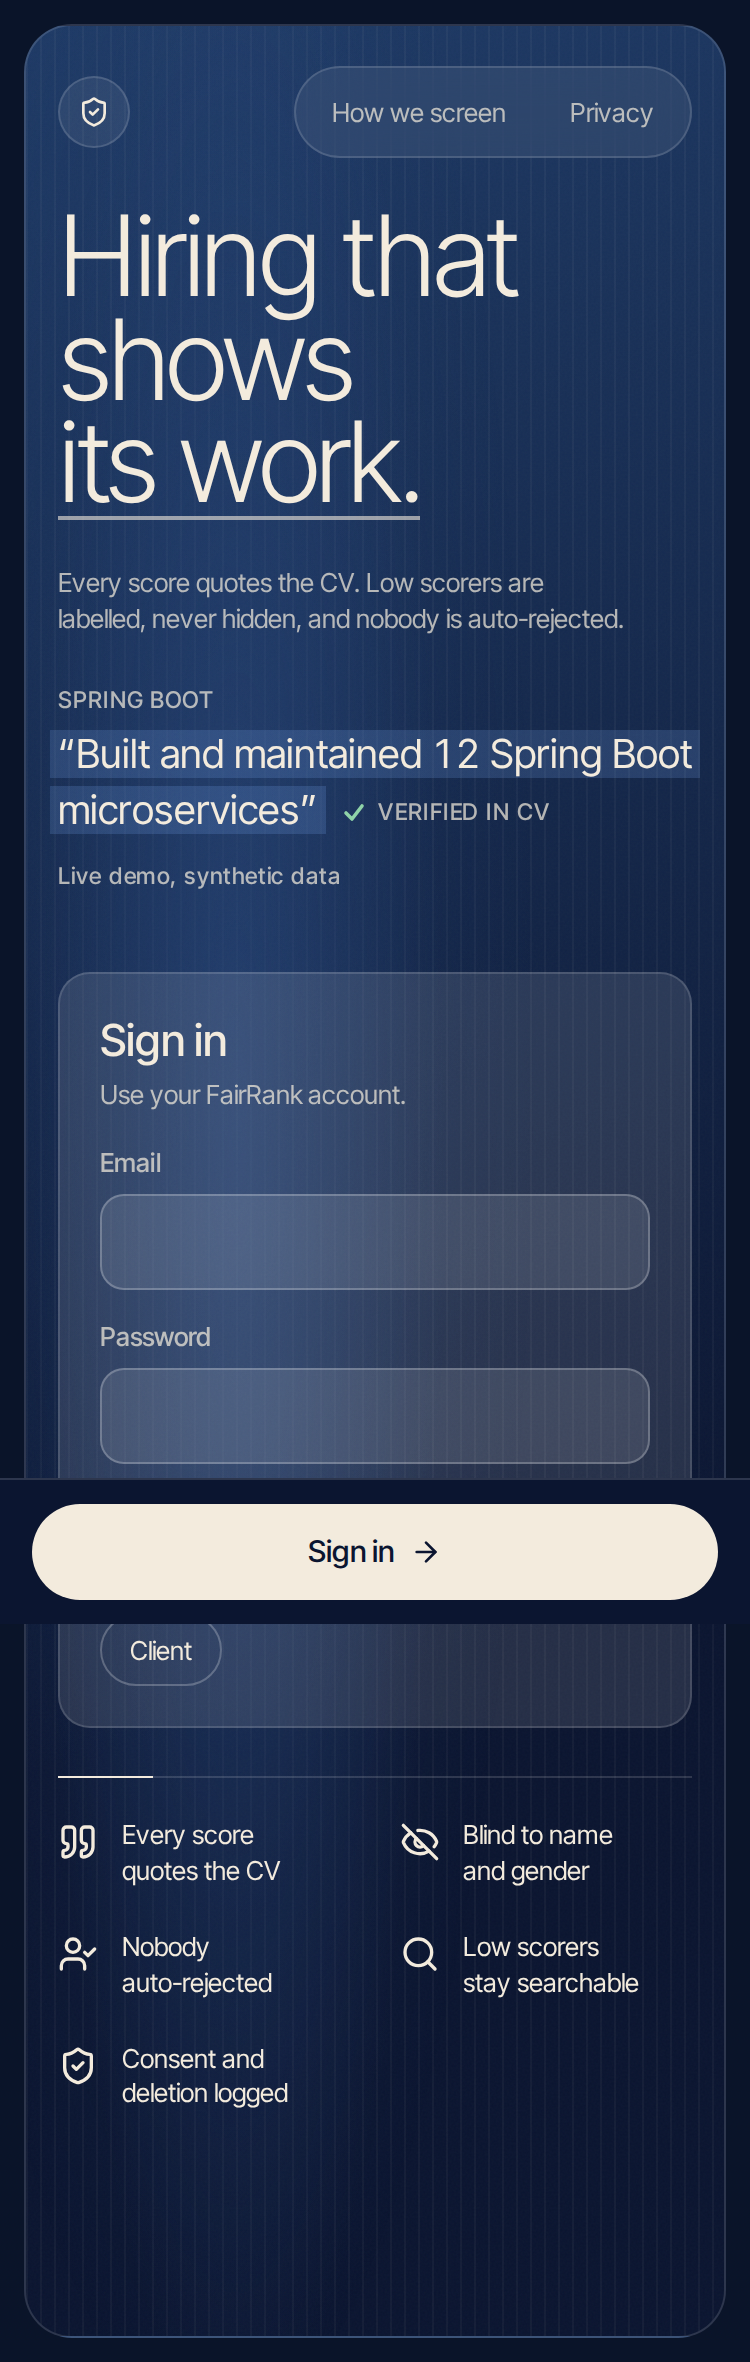
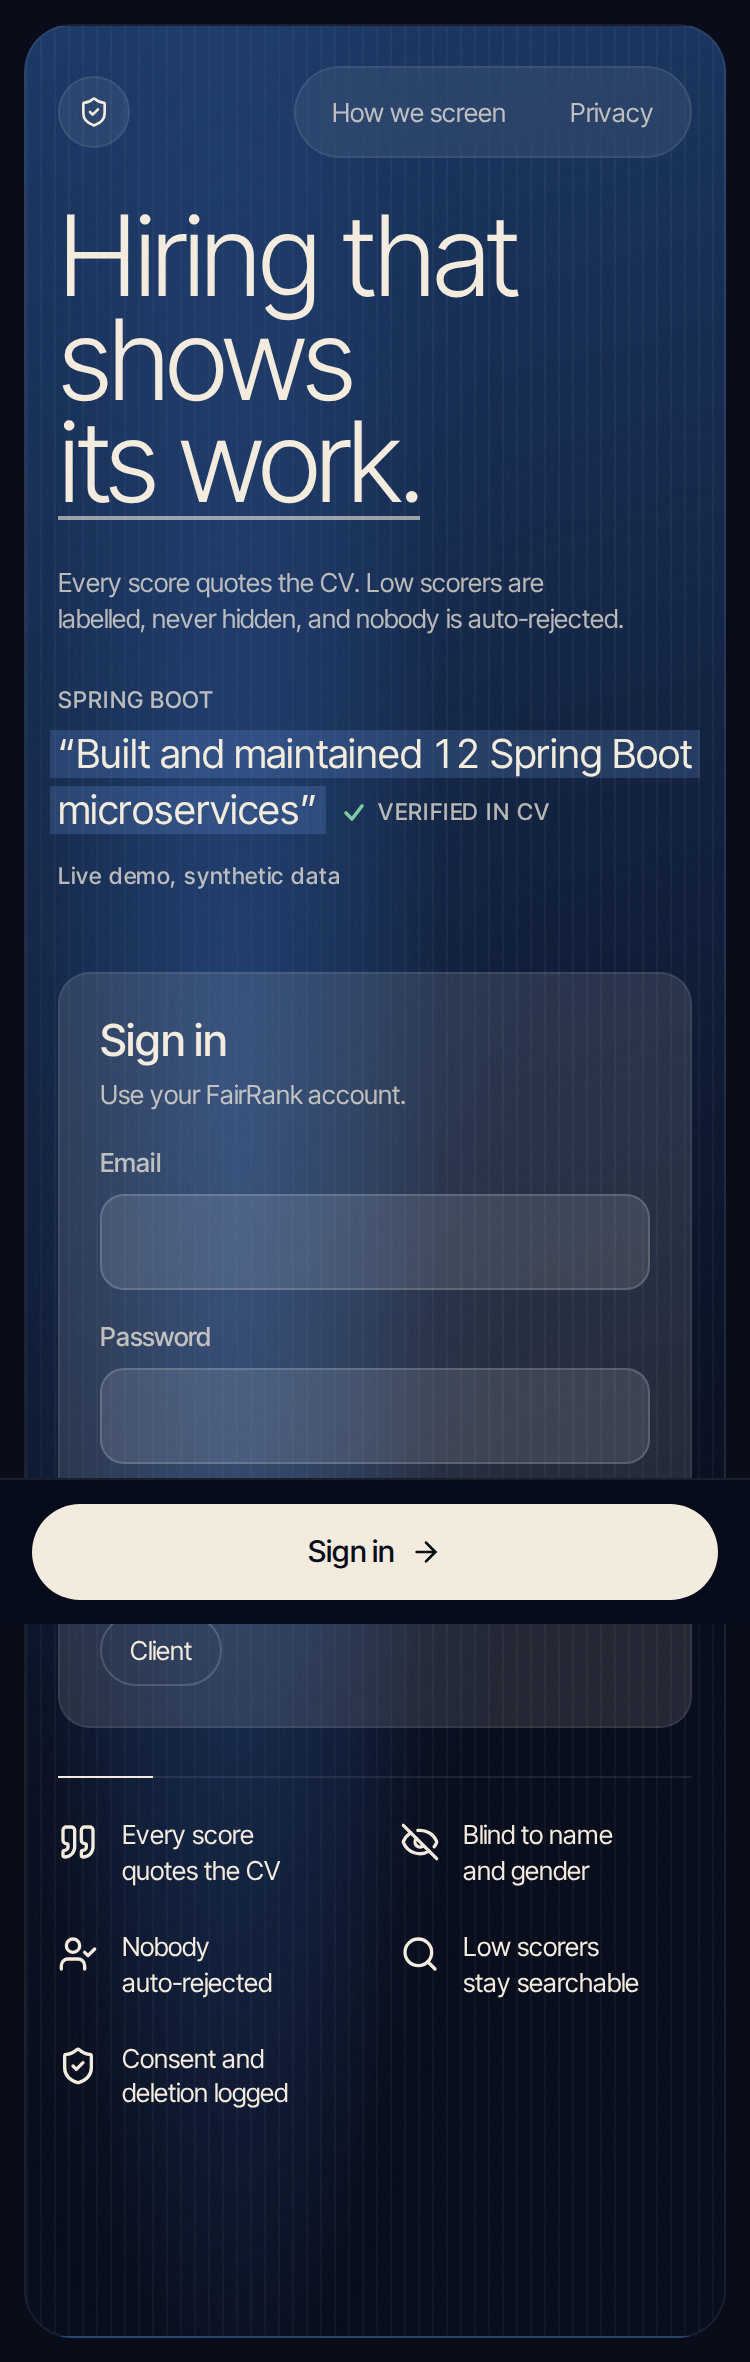
feat(ui): colour refinement (neutral graphite ladder, single signal blue, single-hue progress, neutral band tiles, evidence wash, compact candidate header)

diff --git a/frontend/src/pages/recruiter/CandidatePage.tsx b/frontend/src/pages/recruiter/CandidatePage.tsx
@@ -1,7 +1,7 @@
 import { zodResolver } from '@hookform/resolvers/zod'
 import { useMutation, useQueryClient } from '@tanstack/react-query'
 import { Copy, ExternalLink, Eye, FileText, ScanLine, Send, ShieldCheck, Trash2 } from 'lucide-react'
-import { useMemo, useState } from 'react'
+import { useEffect, useMemo, useRef, useState } from 'react'
 import { useForm } from 'react-hook-form'
 import { Link, useNavigate, useParams } from 'react-router-dom'
 import { z } from 'zod'
@@ -24,7 +24,7 @@ import { useCandidate, useCandidateActions } from '@/lib/queries'
 import type { CandidateDetail, CriterionScore, Stage } from '@/lib/types'
 import { cn } from '@/lib/utils'
 
-function Highlighted({ text, criteria, activeId }: { text: string; criteria: CriterionScore[]; activeId: number | null }) {
+function Highlighted({ text, criteria, activeId, pulse }: { text: string; criteria: CriterionScore[]; activeId: number | null; pulse: number }) {
   const parts = useMemo(() => {
     const spans = criteria
       .filter((c) => c.span)
@@ -45,7 +45,7 @@ function Highlighted({ text, criteria, activeId }: { text: string; criteria: Cri
     <>
       {parts.map((p, i) =>
         p.id ? (
-          <mark key={i} id={`ev-${p.id}`} className="evidence" data-active={activeId === p.id}>
+          <mark key={activeId === p.id ? `${i}-${pulse}` : i} id={`ev-${p.id}`} className={cn('evidence', activeId === p.id && pulse > 0 && 'pulse')} data-active={activeId === p.id}>
             {p.text}
           </mark>
         ) : (
@@ -159,15 +159,32 @@ function SubmissionPanel({ c, canAct }: { c: CandidateDetail; canAct: boolean })
   )
 }
 
+/** True once the element has scrolled up under the app header. */
+function useScrolledPast() {
+  const ref = useRef<HTMLDivElement>(null)
+  const [stuck, setStuck] = useState(false)
+  useEffect(() => {
+    const el = ref.current
+    if (!el || typeof IntersectionObserver === 'undefined') return
+    const io = new IntersectionObserver(([e]) => setStuck(!e.isIntersecting && e.boundingClientRect.top < 0), { rootMargin: '-56px 0px 0px 0px' })
+    io.observe(el)
+    return () => io.disconnect()
+  }, [])
+  return { ref, stuck }
+}
+
 function Detail({ c }: { c: CandidateDetail }) {
   const { data: user } = useMe()
   const canAct = user?.role === 'recruiter'
   const { move, retry } = useCandidateActions(c.id, c.requisition.id)
   const [activeId, setActiveId] = useState<number | null>(null)
+  const [pulse, setPulse] = useState(0)
+  const { ref: headRef, stuck } = useScrolledPast()
   const [tab, setTab] = useState<'evidence' | 'cv' | 'actions'>('evidence')
   const noText = c.raw_text.trim().length === 0
   const select = (crit: CriterionScore) => {
     setActiveId(crit.criterion_id)
+    setPulse((n) => n + 1)
     setTab('cv') // on a phone the CV is its own tab; on desktop both are visible
     requestAnimationFrame(() => document.getElementById(`ev-${crit.criterion_id}`)?.scrollIntoView({ block: 'center', behavior: 'smooth' }))
   }
@@ -176,6 +193,14 @@ function Detail({ c }: { c: CandidateDetail }) {
   const { toast } = useToast()
   return (
     <>
+      {/* compact bar: the score header collapses into this once the page header has scrolled away (zero height, so nothing jumps) */}
+      <div className="sticky top-(--header-h) z-20 h-0" aria-hidden={!stuck}>
+        <div className={cn('-mx-(--gutter) flex items-center justify-between gap-3 border-b bg-ws/95 px-(--gutter) py-1.5 backdrop-blur-sm transition-[opacity,transform] duration-(--dur-base) ease-ui', stuck ? 'translate-y-0 opacity-100' : 'pointer-events-none -translate-y-2 opacity-0')}>
+          <p className="min-w-0 truncate text-body font-medium">{c.full_name || c.original_name || 'Unnamed CV'} <span className="text-small font-normal text-text-2">· {c.requisition.title}</span></p>
+          <ScoreBadge score={sc} />
+        </div>
+      </div>
+      <div ref={headRef}>
       <PageHeader
         back={{ to: `/requisitions/${c.requisition.id}`, label: c.requisition.title }}
         title={c.full_name || c.original_name || 'Unnamed CV'}
@@ -187,6 +212,7 @@ function Detail({ c }: { c: CandidateDetail }) {
         }
         actions={<ScoreBadge score={sc} size="lg" />}
       />
+      </div>
       <div role="tablist" aria-label="Candidate sections" className="mb-4 grid grid-cols-3 gap-1 rounded-pill border p-1 lg:hidden">
         {(['evidence', 'cv', 'actions'] as const).map((t) => (
           <button
@@ -219,7 +245,7 @@ function Detail({ c }: { c: CandidateDetail }) {
             </div>
           ) : (
             <pre className="max-h-[75vh] overflow-auto whitespace-pre-wrap break-words rounded-card border bg-surface-1 p-5 font-sans text-small leading-relaxed">
-              <Highlighted text={c.raw_text} criteria={sc.criteria} activeId={activeId} />
+              <Highlighted text={c.raw_text} criteria={sc.criteria} activeId={activeId} pulse={pulse} />
             </pre>
           )}
         </section>

diff --git a/frontend/src/styles/tokens.css b/frontend/src/styles/tokens.css
@@ -6,30 +6,30 @@
   color-scheme: dark;
 
   /* Surfaces */
-  --bg-base: #0b1530; /* page base */
-  --bg-bloom: #1e3a66; /* gradient mid */
-  --bg-highlight: #2a4a7f; /* bloom core, showcase only */
+  --bg-base: #070c1b; /* page base */
+  --bg-bloom: #1b3866; /* gradient mid */
+  --bg-highlight: #2a4f8a; /* bloom core, showcase only */
   /* Workspace depth ladder (round 2): page < panel < card < raised. Each step is visibly lighter. */
-  --bg-ws: #0a1429; /* page, darkest */
-  --surface-panel: #0f1c3e; /* panels, sidebars, table wells */
-  --surface-1: #152550; /* cards */
-  --surface-2: #1e3068; /* raised: hover, popovers, dialogs' inputs, selected */
+  --bg-ws: #090d1a; /* page, darkest */
+  --surface-panel: #0f1527; /* panels, sidebars, table wells */
+  --surface-1: #131b30; /* cards */
+  --surface-2: #1a2440; /* raised: hover, popovers, dialogs' inputs, selected */
   --glass: rgba(255, 255, 255, 0.07); /* showcase only */
   --glass-strong: rgba(255, 255, 255, 0.11);
-  --border: rgba(255, 255, 255, 0.14); /* 1px everywhere */
-  --border-strong: rgba(255, 255, 255, 0.24);
+  --border: rgba(255, 255, 255, 0.08); /* 1px everywhere */
+  --border-strong: rgba(255, 255, 255, 0.16);
 
   /* Text (cream) */
   --text-1: #f3ebdd;
-  --text-2: rgba(243, 235, 221, 0.72);
-  --text-3: rgba(243, 235, 221, 0.62); /* helper text, placeholders: >= 4.5:1 on page, panel, card and raised */
+  --text-2: rgba(243, 235, 221, 0.74);
+  --text-3: rgba(243, 235, 221, 0.54); /* helper text, placeholders: >= 4.5:1 on page, panel, card and raised */
 
   /* The ONLY accent: primary buttons, active nav, focus ring */
   --accent: #f3ebdd;
-  --on-accent: #0b1530;
+  --on-accent: #090d1a;
 
   /* Edges and light (round 2) */
-  --highlight: rgba(255, 255, 255, 0.1); /* 1px top edge of cards */
+  --highlight: rgba(255, 255, 255, 0.06); /* 1px top edge of cards */
   --card-sheen: 4%; /* how much lighter the top of a card is than its bottom */
   --stripe: 3px; /* band stripe on ranked rows */
   --glow-blur: 24px; /* soft band glow behind a ScoreRing */
@@ -38,20 +38,20 @@
   --signal: #7fb2ff;
 
   /* Pipeline stage hues: a dot plus a 12% tinted chip. The label always names the stage (never colour alone). */
-  --stage-sourced: #94a3b8; /* slate */
-  --stage-screened: #7dd3fc; /* sky */
-  --stage-submitted: #b4a0ff; /* violet */
-  --stage-shortlisted: #5eead4; /* teal */
-  --stage-interview: #fbbf24; /* amber */
-  --stage-offered: #fb923c; /* orange */
-  --stage-joined: #86efac; /* green */
-  --stage-rejected: #c48b9a; /* muted rose */
+  --stage-sourced: #8e9aae; /* slate */
+  --stage-screened: #7cb8d6; /* sky */
+  --stage-submitted: #a79bd6; /* violet */
+  --stage-shortlisted: #6fc4b4; /* teal */
+  --stage-interview: #d9b25f; /* amber */
+  --stage-offered: #d98f5e; /* orange */
+  --stage-joined: #86c79a; /* green */
+  --stage-rejected: #b58a96; /* muted rose */
 
   /* Status only (score bands, chips). Never decoration. */
-  --ok: #8fd3a8;
-  --warn: #e8c77a;
-  --bad: #e88f8f;
-  --info: #9db8e8;
+  --ok: #7ccba0;
+  --warn: #e2bf72;
+  --bad: #e08a8a;
+  --info: #8fb0e8;
 
   /* Type: Inter Tight (self-hosted via Fontsource) */
   --font-ui: 'Inter Tight Variable', ui-sans-serif, system-ui, sans-serif;

diff --git a/frontend/src/index.css b/frontend/src/index.css
@@ -147,14 +147,21 @@
 
 /* Evidence highlight inside the CV text. */
 mark.evidence {
-  background: color-mix(in srgb, var(--accent) 18%, transparent);
+  background: color-mix(in srgb, var(--signal) 16%, transparent);
   color: inherit;
-  border-radius: var(--r-xs);
+  border-radius: 2px;
   padding: 0 2px;
-  box-shadow: inset 0 -2px 0 color-mix(in srgb, var(--accent) 60%, transparent);
+  border-bottom: 2px solid color-mix(in srgb, var(--signal) 60%, transparent);
 }
 mark.evidence[data-active="true"] {
-  background: color-mix(in srgb, var(--accent) 34%, transparent);
+  background: color-mix(in srgb, var(--signal) 26%, transparent);
+}
+/* Clicking an evidence quote pulses its highlight once. */
+mark.evidence.pulse {
+  animation: evidence-pulse 900ms var(--ease);
+}
+@keyframes evidence-pulse {
+  0%, 60% { background: color-mix(in srgb, var(--signal) 45%, transparent); box-shadow: 0 0 0 4px color-mix(in srgb, var(--signal) 22%, transparent); }
 }
 
 dialog.modal::backdrop {
@@ -229,9 +236,7 @@ dialog.modal[open] {
 
 /* A very subtle wash behind page headers so the page is not one flat slab. */
 @utility page-wash {
-  background:
-    radial-gradient(60% 100% at 18% 0%, color-mix(in srgb, var(--bg-bloom) 38%, transparent), transparent 70%),
-    radial-gradient(40% 80% at 92% 0%, color-mix(in srgb, var(--bg-highlight) 16%, transparent), transparent 70%);
+  background: radial-gradient(60% 100% at 18% 0%, color-mix(in srgb, var(--text-1) 3%, transparent), transparent 70%);
 }
 
 /* ---- Round 2: motion (all of it is switched off by the prefers-reduced-motion rule above) ---- */

diff --git a/frontend/src/components/ui/band-bar.tsx b/frontend/src/components/ui/band-bar.tsx
@@ -23,12 +23,12 @@ export function BandBar({ counts, value, onChange }: { counts: Record<BandKey, n
             onClick={() => onChange(on ? 'all' : s.key)}
             style={{ '--h': `var(${s.hue})`, flexGrow: Math.max(counts[s.key], 1.2) } as React.CSSProperties}
             className={cn(
-              'flex min-h-12 items-center justify-between gap-3 rounded-input border px-3.5 text-left transition-colors duration-(--dur-fast) sm:basis-0',
-              on ? 'border-(--h) bg-(--h) text-on-accent' : 'border-[color-mix(in_srgb,var(--h)_35%,transparent)] bg-[color-mix(in_srgb,var(--h)_12%,transparent)] text-text-1 hover:bg-[color-mix(in_srgb,var(--h)_20%,transparent)]',
+              'flex min-h-12 items-center justify-between gap-3 rounded-input border border-l-[3px] border-l-(--h) px-3.5 text-left transition-colors duration-(--dur-fast) sm:basis-0',
+              on ? 'border-signal border-l-(--h) bg-surface-2 text-text-1 outline-1 outline-signal' : 'surface-card text-text-1 hover:bg-surface-2',
             )}
           >
             <span className="text-small font-medium">{s.label}</span>
-            <span className="tnum text-h2"><CountUp value={counts[s.key]} /></span>
+            <span className="tnum text-h2 text-(--h)"><CountUp value={counts[s.key]} /></span>
           </button>
         )
       })}

diff --git a/frontend/src/components/ui/pipeline-progress.tsx b/frontend/src/components/ui/pipeline-progress.tsx
@@ -3,14 +3,14 @@ import type { Stage } from '@/lib/types'
 
 const FLOW = STAGES.filter((s) => s.key !== 'rejected')
 
-/** Seven small segments (Sourced to Joined) filled up to the furthest stage any CV has reached, each in its stage hue. */
+/** Seven small segments (Sourced to Joined) filled up to the furthest stage any CV has reached, in the single `--signal` hue (empty segments 8% white). */
 export function PipelineProgress({ furthest }: { furthest: Stage | null }) {
   const at = furthest ? FLOW.findIndex((s) => s.key === furthest) : -1
   return (
     <div className="space-y-1.5">
       <div role="img" aria-label={furthest ? `Furthest stage reached: ${stageLabel(furthest)}` : 'No CV has entered the pipeline yet'} className="flex gap-0.5">
         {FLOW.map((s, i) => (
-          <span key={s.key} style={{ '--h': `var(--stage-${s.key})` } as React.CSSProperties} className={i <= at ? 'h-1.5 flex-1 rounded-pill bg-(--h)' : 'h-1.5 flex-1 rounded-pill bg-surface-2'} />
+          <span key={s.key} className={i <= at ? 'h-1.5 flex-1 rounded-pill bg-signal' : 'h-1.5 flex-1 rounded-pill bg-text-1/8'} />
         ))}
       </div>
       <p className="text-micro text-text-2">{furthest ? `Furthest: ${stageLabel(furthest)}` : 'Nothing in the pipeline yet'}</p>

diff --git a/frontend/src/pages/recruiter/RankedPage.tsx b/frontend/src/pages/recruiter/RankedPage.tsx
@@ -108,9 +108,9 @@ export function RankedPage() {
           <div className="flex gap-2">
             <div className="relative flex-1 md:w-64 md:flex-none">
               <Search className="pointer-events-none absolute left-3.5 top-1/2 size-4 -translate-y-1/2 text-text-2" aria-hidden />
-              <Input aria-label="Search candidates" className="pl-10" placeholder="Search CVs" value={q} onChange={(e) => setQ(e.target.value)} />
+              <Input aria-label="Search candidates" className="border-border-strong bg-surface-1 pl-10" placeholder="Search CVs" value={q} onChange={(e) => setQ(e.target.value)} />
             </div>
-            <div className="w-40"><Listbox aria-label="Filter by stage" value={stage} onChange={setStage} options={[{ value: '', label: 'Any stage' }, ...STAGES.map((s) => ({ value: s.key, label: s.label }))]} /></div>
+            <div className="w-40"><Listbox aria-label="Filter by stage" className="border-border-strong bg-surface-1" value={stage} onChange={setStage} options={[{ value: '', label: 'Any stage' }, ...STAGES.map((s) => ({ value: s.key, label: s.label }))]} /></div>
           </div>
         </div>
       </div>

diff --git a/frontend/src/components/ui/dist-bar.tsx b/frontend/src/components/ui/dist-bar.tsx
@@ -14,7 +14,7 @@ export function DistBar({ counts, className }: { counts: DistCounts; className?:
   const total = counts.strong + counts.possible + counts.weak + counts.review
   return (
     <div className={cn('space-y-1.5', className)}>
-      <div role="img" aria-label={SEGS.map((s) => `${counts[s.key]} ${s.label}`).join(', ')} className="flex h-1.5 gap-0.5 overflow-hidden rounded-pill bg-surface-2">
+      <div role="img" aria-label={SEGS.map((s) => `${counts[s.key]} ${s.label}`).join(', ')} className="flex h-1 gap-0.5 overflow-hidden rounded-pill bg-text-1/8">
         {total > 0 && SEGS.map((s) => counts[s.key] > 0 && <span key={s.key} className={cn('h-full', s.bar)} style={{ flexGrow: counts[s.key] }} />)}
       </div>
       <p className="tnum flex flex-wrap gap-x-3 text-micro text-text-2">

diff --git a/frontend/src/pages/recruiter/RequisitionsPage.tsx b/frontend/src/pages/recruiter/RequisitionsPage.tsx
@@ -83,9 +83,9 @@ function CardSkeleton() {
 
 function Stat({ label, value }: { label: string; value: number | null }) {
   return (
-    <div className="surface-card rounded-card border px-4 py-3.5 sm:px-5">
+    <div className="surface-card rounded-card px-4 py-4 sm:px-5">
       <p className="text-micro uppercase text-text-2">{label}</p>
-      <p className="tnum text-h1">{value === null ? '–' : <CountUp value={value} />}</p>
+      <p className="tnum mt-1 text-[40px] font-light leading-none">{value === null ? '–' : <CountUp value={value} />}</p>
     </div>
   )
 }

diff --git a/scripts/qa_checks.py b/scripts/qa_checks.py
@@ -320,6 +320,8 @@ def main() -> int:
         settle(pg)
         check(not nameless(pg), "icon-only controls have accessible names: login", ", ".join(nameless(pg)[:3]))
         contrast_page(pg, "login @1440")
+        geo = pg.evaluate("""() => { const q = (sel) => document.querySelector(sel)?.getBoundingClientRect(); const nav = [...document.querySelectorAll('header *')].map(e => e.getBoundingClientRect()).reduce((m, r) => Math.max(m, r.bottom), 0); const main = q('main h1'); const strip = [...document.querySelectorAll('footer *')].map(e => e.getBoundingClientRect()).reduce((m, r) => Math.max(m, r.bottom), 0); const tilted = [...document.querySelectorAll('main *')].some(e => /rotate|matrix/.test(getComputedStyle(e).transform) && getComputedStyle(e).transform !== 'none'); return {gap: Math.round(main.top - nav), strip: Math.round(strip), vh: innerHeight, sh: document.documentElement.scrollHeight, tilted}; }""")
+        check(geo["gap"] >= 48 and geo["strip"] <= geo["vh"] and geo["sh"] <= geo["vh"] and not geo["tilted"], "login: no tilt, >= 48px under the nav, strip not cropped at 1440x900", str(geo))
         c.close()
         c, pg = ctx(375, 812)
         pg.goto(f"{BASE}/login")

diff --git a/docs/DESIGN.md b/docs/DESIGN.md
@@ -19,18 +19,18 @@ Rule: decoration lives only on Showcase. Workspace and Portal earn their look fr
 --bg-base:        #0B1530   /* page base */
 --bg-bloom:       #1E3A66   /* gradient mid */
 --bg-highlight:   #2A4A7F   /* bloom core, showcase only */
---bg-ws:          #0A1429   /* page, darkest (round 2: see section 7) */
+--bg-ws:          #090D1A   /* page, darkest (round 2: see section 7) */
 --surface-panel:  #0F1C3E   /* panels */
---surface-1:      #152550   /* cards */
+--surface-1:      #131B30   /* cards */
 --surface-2:      #1E3068   /* raised / hover */
 --glass:          rgba(255,255,255,0.07)   /* showcase only */
 --glass-strong:   rgba(255,255,255,0.11)
---border:         rgba(255,255,255,0.14)   /* 1px everywhere */
---border-strong:  rgba(255,255,255,0.24)
+--border:         rgba(255,255,255,0.08)   /* 1px everywhere */
+--border-strong:  rgba(255,255,255,0.16)
 
 --text-1:         #F3EBDD   /* primary (cream) */
---text-2:         rgba(243,235,221,0.72)
---text-3:         rgba(243,235,221,0.62)   /* helper text, placeholders (>= 4.5:1 on all four workspace steps) */
+--text-2:         rgba(243,235,221,0.74)
+--text-3:         rgba(243,235,221,0.54)   /* helper text, placeholders (>= 4.5:1 on all four workspace steps) */
 
 --accent:         #F3EBDD   /* primary action colour: primary buttons */
 --on-accent:      #0B1530
@@ -105,7 +105,7 @@ Each has loading, empty and error variants where relevant, and a story or demo r
 Owner feedback: the workspace was one flat navy, forms were dark-on-dark, login did not excite. Additions below extend sections 1 to 6; where they conflict, this section wins.
 
 ### 7.1 Depth ladder (workspace)
-`page (--bg-ws #0A1429) < panel (--surface-panel #0F1C3E) < card (--surface-1 #152550) < raised (--surface-2 #1E3068)`. Each step is visibly lighter; use the next step up for anything that sits on a surface (inputs inside a card use raised; hover is raised).
+`page (--bg-ws #090D1A) < panel (--surface-panel #0F1527) < card (--surface-1 #131B30) < raised (--surface-2 #1A2440)`. Each step is visibly lighter; use the next step up for anything that sits on a surface (inputs inside a card use raised; hover is raised).
 - **Card treatment** (`surface-card` utility): 1px top edge `--highlight` (rgba(255,255,255,0.10)) and a vertical sheen, the top `--card-sheen` (4%) lighter than the bottom.
 - **Page wash** (`page-wash` utility): a very subtle radial wash behind page headers so the page is not one flat slab.
 - Contrast (checked by `scripts/contrast.py`): `--text-2` >= 6.25:1 and `--text-3` >= 5.05:1 on every step.
@@ -167,3 +167,15 @@ The page's primary action is pinned to a bottom bar (solid in the workspace, `St
 - No card, tilt, peeking card or carousel dots. Headline is solid cream on both lines at `text-hero`; "its work." is set apart by a 2px cream@60% underline that draws itself once (`.draw-underline`, 700ms).
 - One **proof line** under the subcopy, left-aligned with the headline: micro-caps criterion label, a 20px quote, a "Verified in CV" tag with a self-drawing tick. On load a `--signal` 18% wash sweeps behind the quote (`.proof-wash`, 900ms), then the tick draws. Every 8s it cross-fades (300ms) to the next of 3 samples; the third honestly shows "No evidence found" with a dashed tag. Paused on hover/focus and under reduced motion. Labelled "Live demo, synthetic data".
 - Sign-in is the only panel: one straight glass card, vertically centred on the headline block. At least 48px between nav pill and content on desktop. The five-point strip is never cropped at 1440x900 or 375x812 (2-column on phone). Phone order: headline, proof line, sign-in, strip.
+
+### 8.2 Colour refinement (calmer, more neutral)
+Final values live in `tokens.css`; everything below was checked with `scripts/contrast.py` and the pixel QA.
+- Workspace ladder (neutral graphite-navy, not blue): page `#090D1A` < panel `#0F1527` < card `#131B30` < raised `#1A2440`. Borders `rgba(255,255,255,.08)` / strong `.16`; card top-edge highlight `.06`.
+- Showcase: base `#070C1B`, bloom `#1B3866`, highlight `#2A4F8A`. Streaks and grain unchanged. Text on the login card is checked over the bloom (the card is tinted `bg-base` where it needs it).
+- Text: cream `#F3EBDD`, text-2 74%, text-3 54% (still >= 4.5:1 on page, panel, card and raised).
+- `--signal #7FB2FF` is the ONLY saturated blue in the workspace: focus, links, active tab, selected outline, pipeline progress fill, evidence highlight. No blue surface fills (the page wash is now a neutral 3% cream glow).
+- Status, for status only: ok `#7CCBA0`, warn `#E2BF72`, bad `#E08A8A`, info `#8FB0E8`.
+- Stage hues kept but desaturated (see tokens); chips are tinted only (12% fill, 1px border at 30%, label in text-1).
+- Requisition card: ONE coloured element, the band distribution bar (4px high, 2px gaps). Pipeline progress is single-hue: filled segments `--signal`, empty segments 8% cream, text "Furthest: Joined". Stat tiles: card surface, no border, micro label, 40px light tabular number (no sparkline: no real series exists).
+- Ranked list: band filters are neutral cards with a 3px coloured left edge and a coloured count; selected = raised surface + `--signal` outline. Search and stage controls use the card surface with a 1px strong border and the signal focus ring.
+- Candidate detail: evidence in the CV text is a `--signal` 16% wash with a 2px bottom border at 60% and 2px radius; selecting a quote scrolls to it and pulses it once (900ms). The score header collapses into a compact sticky bar (name + score ring) once the page header scrolls away; the bar has zero layout height.
